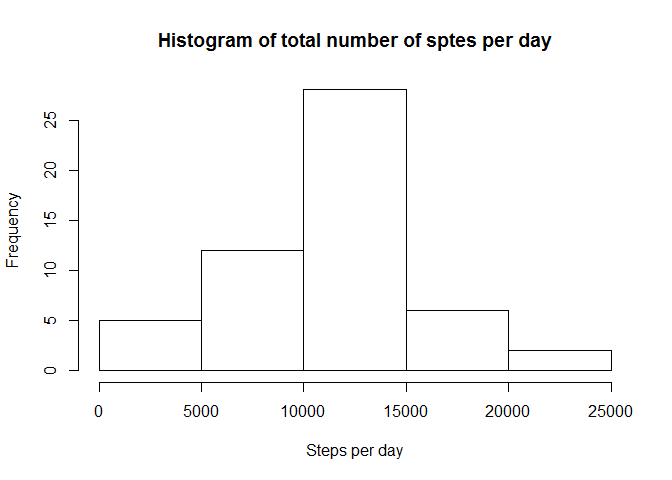
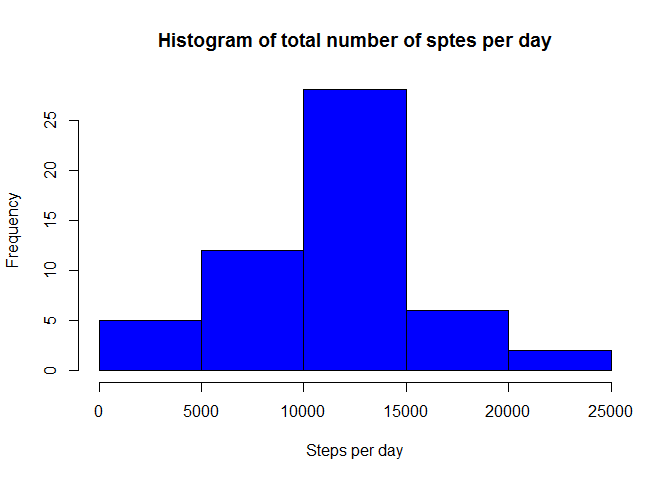
First commit

Changed region(s): [[0.125, 0.1875, 0.9062, 0.7812]]

diff --git a/PA1_template.html b/PA1_template.html
@@ -131,8 +131,8 @@ acts &lt;- data[complete.cases(data),]</code></pre>
 <p>-Now we calculate the total number of steps taken per day and make a histogram</p>
 <pre class="r"><code>day_sums &lt;- tapply(acts$steps,acts$date,sum)  
 
-hist(day_sums,main = &quot;Histogram of total number of sptes per day&quot;,xlab = &quot;Steps per day&quot;)</code></pre>
[1 lines of base64/hex data omitted]
+hist(day_sums,col = &quot;blue&quot;,main = &quot;Histogram of total number of sptes per day&quot;,xlab = &quot;Steps per day&quot;)</code></pre>
[1 lines of base64/hex data omitted]
 <p>-Then we calculate the mean and the median of the total number of steps</p>
 <pre class="r"><code>round(mean(day_sums))</code></pre>
 <pre><code>## [1] 10766</code></pre>
@@ -150,7 +150,7 @@ Max_int &lt;- indices[which.max(int_steps)]</code></pre>
 <p>-The total number of missing values in the data set is</p>
 <pre class="r"><code>sum(!complete.cases(data))</code></pre>
 <pre><code>## [1] 2304</code></pre>
-<p>-Now we will create a new dataset that is equal to the original dataset but with the missing data filled in</p>
+<p>-Now we will create a new dataset that is equal to the original dataset but with the missing data filled in. We will do this by replacing the missing values with the averages of steps taken for every interval</p>
 <pre class="r"><code>data1 &lt;- data
 
 for (i in 1:length(data1$steps)) {
@@ -161,8 +161,8 @@ for (i in 1:length(data1$steps)) {
 <p>-And next we will calculate the total number of steps per day for this dataset and make a histogram</p>
 <pre class="r"><code>day_sums1 &lt;- tapply(data1$steps, data1$date, sum)
 
-hist(day_sums1,main = &quot;Histogram of total number of steps per day(fixed)&quot;,xlab = &quot;Steps per day&quot;)</code></pre>
[1 lines of base64/hex data omitted]
+hist(day_sums1,col = &quot;blue&quot;,main = &quot;Histogram of total number of steps per day(fixed)&quot;,xlab = &quot;Steps per day&quot;)</code></pre>
[1 lines of base64/hex data omitted]
 <p>-Then we calculate the mean and the median of the total number of steps for this dataset</p>
 <pre class="r"><code>round(mean(day_sums1))</code></pre>
 <pre><code>## [1] 10766</code></pre>

diff --git a/PA1_template.md b/PA1_template.md
@@ -19,7 +19,7 @@ acts <- data[complete.cases(data),]
 ```r
 day_sums <- tapply(acts$steps,acts$date,sum)  
 
-hist(day_sums,main = "Histogram of total number of sptes per day",xlab = "Steps per day")
+hist(day_sums,col = "blue",main = "Histogram of total number of sptes per day",xlab = "Steps per day")
 ```
 
 ![](PA1_template_files/figure-html/hist1-1.png)<!-- -->
@@ -74,7 +74,7 @@ sum(!complete.cases(data))
 ## [1] 2304
 ```
 
--Now we will create a new dataset that is equal to the original dataset but with the missing data filled in
+-Now we will create a new dataset that is equal to the original dataset but with the missing data filled in. We will do this by replacing the missing values with the averages of steps taken for every interval
 
 
 ```r
@@ -93,7 +93,7 @@ for (i in 1:length(data1$steps)) {
 ```r
 day_sums1 <- tapply(data1$steps, data1$date, sum)
 
-hist(day_sums1,main = "Histogram of total number of steps per day(fixed)",xlab = "Steps per day")
+hist(day_sums1,col = "blue",main = "Histogram of total number of steps per day(fixed)",xlab = "Steps per day")
 ```
 
 ![](PA1_template_files/figure-html/hist2-1.png)<!-- -->
